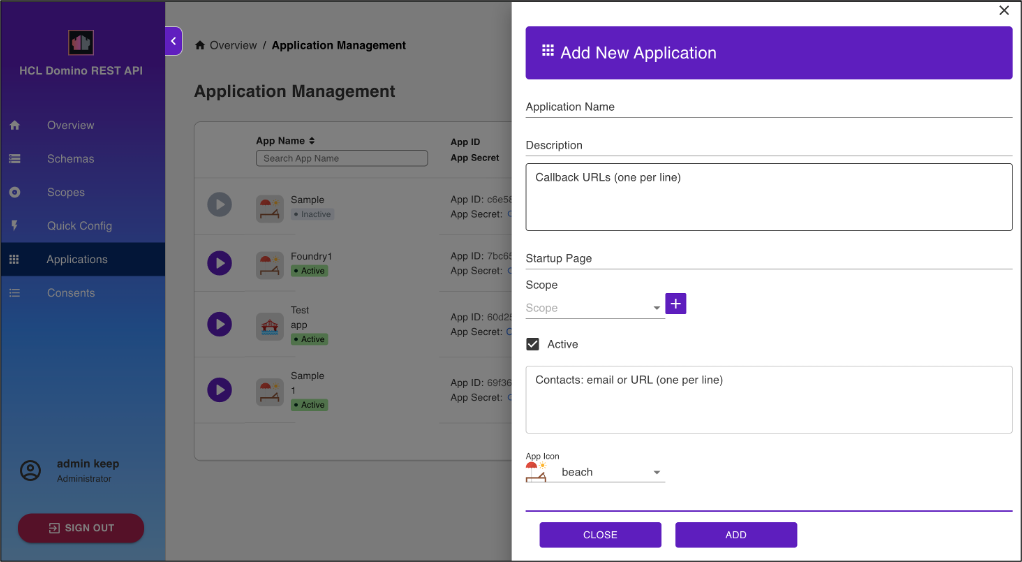
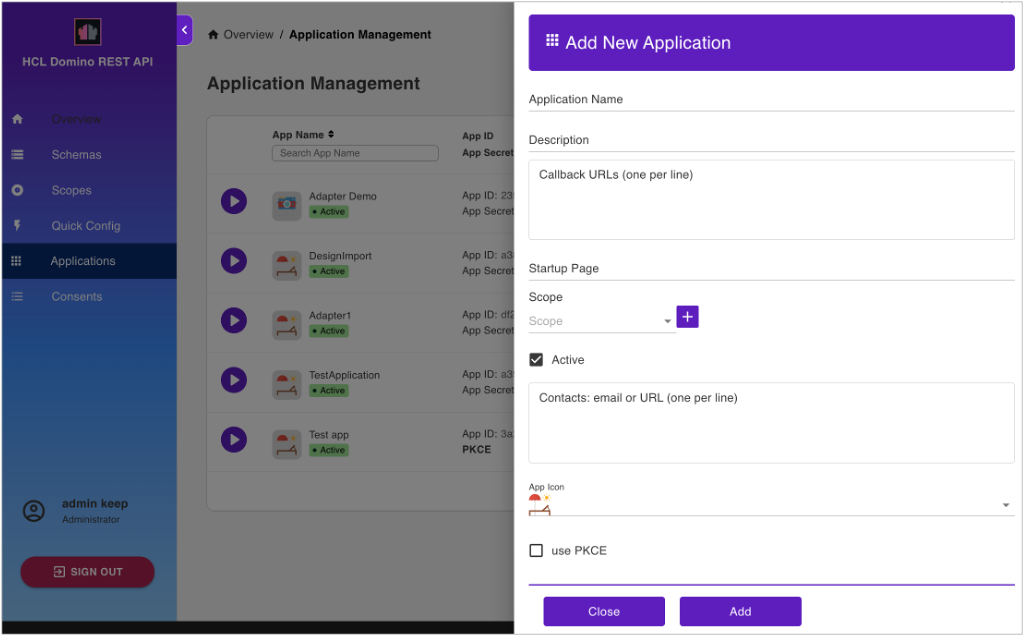
PKCE update

Changed region(s): [[0.0, 0.0, 1.0, 1.0], [0.9706, 0.7865, 1.0, 0.8167], [0.9706, 0.363, 1.0, 0.3932]]

diff --git a/docs/references/usingwebui/appui.md b/docs/references/usingwebui/appui.md
@@ -8,7 +8,8 @@ The **Application Management** page shows all available applications.
 
 ![List of Applications](../../assets/images/ListOfApplications.png)
 
-!!!tip
+!!! tip
+
     - Click the play button to launch the application.
     - Click the **Edit Application** icon to update the details of the application.
     - Click the **Delete Application** icon to delete the application. 
@@ -23,62 +24,43 @@ The **Application Management** page shows all available applications.
 
       ![Application Form](../../assets/images/AddApplicationForm.png)
 
-      When adding a scope, select the scope from the **Scope** drop-down list and click the **Add Scope** icon.
-      
-      **When your app accesses endpoints that run write operations in the `/setup-v1/` URL path, make sure to add the `$SETUP` scope aside from the `$DATA` scope** to enhance access control in relation to the app inheriting a user's access rights when the user grants app access. 
+      The new application is now shown in the **Application Management** page.
 
-The new application is now shown in the **Application Management** page.
+!!! note
+
+    - When adding a scope, select the scope from the **Scope** drop-down list and click the **Add Scope** icon.
+    - **When your app accesses endpoints that run write operations in the `/setup-v1/` URL path, make sure to add the `$SETUP` scope aside from the `$DATA` scope** to enhance access control in relation to the app inheriting a user's access rights when the user grants app access.
+    - Select the **use PKCE** checkbox if you want to use PKCE or Proof Key for Code Exchange, an extension to the authorization code flow to prevent cross-site request forgery and authorization code injection attacks. For more information about how PKCE works and how to implement PKCE, see [Authorization Code Flow with Proof Key for Code Exchange (PKCE)](https://auth0.com/docs/get-started/authentication-and-authorization-flow/authorization-code-flow-with-pkce "Opens a new tab"){: target="_blank" rel="noopener noreferrer"}&nbsp;![link image](../../assets/images/external-link.svg){: style="height:15px;width:15px"}.
 
 ## Generate an app secret
 
+!!! note
+
+    This only applies to applications that use app secret as authentication method. This is not needed if you use PKCE as the authentication method. 
+
 - For applications without a configured app secret, click the **Click to Generate Secret** text.
 - For applications with a configured app secret, click the **Click to Generate Secret** icon&nbsp;![app secret icon](../../assets/images/appsecreticon.png){: style="height:2%;width:2%"}.
-
-
-<!--
-## Add an application
-
-1. On the **Application Management** page, click **Add Application** to add an application.
-
-      ![Add Application](../../assets/images/AddApplication.png){: style="height:80%;width:80%"}
-
-2. Under **Add New Application**, fill in the form and click **Add**.
-
-      ![Application Form](../../assets/images/AddApplicationForm.png){: style="height:80%;width:80%"}
-      
-      When adding a scope, select the scope from the Scope drop-down list and click the Add Scope icon. 
-
-      **When your app accesses endpoints that run write operations in the `/setup-v1/` URL path, make sure to add the `$SETUP` scope aside from the `$DATA` scope** to enhance access control in relation to the app inheriting a user's access rights when the user grants app access. 
-
-
-3. Click the application tile to access options to generate application secret, to edit, and to delete the application.
-
-      ![Edit Application](../../assets/images/EditApplication.png){: style="height:80%;width:80%"}
--->
-
 
 ## Filter applications
 
 You can use the filter function to filter which applications to display.
 
-**To use the filter**
-
 1. Click the filter icon. This opens the **Filter** pane.
-2. Use any or all the filters as needed, and then click **Show Results**. 
+2. Use any or all the filters as needed, and then click **Show Results**.
 
 For more information on the filters, refer to the following table:
 
-|Filter|Description
+|Filter|Description|
 |:----|:----|
 |Status| Select **All** to display active and inactive applications.<br/><br/>Select **Active** to show only active applications.<br/><br/>Select **Inactive** to show only inactive applications.|
-|App secret|Select **All** to display all applications.<br/><br/>Select **Generated** to show only applications with an app secret.<br/><br/>Select **Not Generated** to show only applications without a generated app secret.|
+|Authentication method|Select **All** to display all applications.<br/><br/>Select **App secret** to show all applications that use app secret as authentication method.<br/><br/>Select **App secret generated** to show all applications that use app secret as authentication method and with the app secret already generated.<br/><br/>Select **App secret not generated** to show all applications that use app secret as authentication method but with the app secret not yet generated.<br/><br/>Select **PKCE** to show all applications that use PKCE.|
 
-!!!tip
+!!! tip
+
     Click **Reset** in the **Filter** pane to clear all filters. 
-
 
 ## Access OAuth Consents
 
-- On the **Application Management** page, click **OAuth Consents**. The **OAuth Consents** dialog opens.
+On the **Application Management** page, click **OAuth Consents**. The **OAuth Consents** dialog opens.
 
 All the information and features in the **OAuth Consents** dialog are the same to the information and features in the **OAuth Consents** page. For more information, see [OAUth Consents](oauthconsentui.md).

diff --git a/docs/whatsnew/v1.1.3.md b/docs/whatsnew/v1.1.3.md
@@ -1,14 +1,18 @@
-# DRAPI 1.1.3 Release Notes
+# What's new for Domino REST API v1.1.3
 
 Release date: April 21, 2025
 
 ## New features
 
+- Added the option to use Proof Key for Code Exchange (PKCE) as the authentication method for the created OAuth app on the Application Management page in the Admin UI. PKCE enhances security by ensuring that only the intended client can obtain an access token, providing a strong defense against potential security threats.
+
+    For more information, see [Add an application](../references/usingwebui/appui.md#add-an-application).
+
 - New option for logging in to the **Admin UI**
 
-  You can now log in to the Admin UI using the *Log in with OIDC* option. This option enables the use of Domino REST API IdP and implements the OAuth process requiring user consent to log in. It also enables the use of external IdP to log in to the **Admin UI** that uses authorization code flow with PKCE.
+    You can now log in to the Admin UI using the *Log in with OIDC* option. This option enables the use of Domino REST API IdP and implements the OAuth process requiring user consent to log in. It also enables the use of external IdP to log in to the **Admin UI** that uses authorization code flow with PKCE.
 
-  For more information, see [Log in options](../references/usingwebui/index.md#log-in-options).
+    For more information, see [Log in options](../references/usingwebui/index.md#log-in-options).
 
 ## Improvements
 
@@ -26,7 +30,7 @@ Release date: April 21, 2025
 
 ### CORS is now using Regex
 
-[Browser-based applications](../references/usingdominorestapi/keepapplications.md) that are hosted on a different host need [CORS](https://developer.mozilla.org/en-US/docs/Glossary/CORS) support. Until Domino REST API v1.1.2, this was done by providing a plain string that a domain would need to end on. Starting Domino REST API v1.1.3, this is replaced with a [regular expression (Regex)](https://en.wikipedia.org/wiki/Regular_expression).
+[Browser-based applications](../references/usingdominorestapi/keepapplications.md) that are hosted on a different host need [CORS](https://developer.mozilla.org/en-US/docs/Glossary/CORS "Opens a new tab"){: target="_blank" rel="noopener noreferrer"}&nbsp;![link image](../assets/images/external-link.svg){: style="height:15px;width:15px"} support. Until Domino REST API v1.1.2, this was done by providing a plain string that a domain would need to end on. Starting Domino REST API v1.1.3, this is replaced with a [regular expression (Regex)](https://en.wikipedia.org/wiki/Regular_expression "Opens a new tab"){: target="_blank" rel="noopener noreferrer"}&nbsp;![link image](../assets/images/external-link.svg){: style="height:15px;width:15px"}.
 
 Old:
 
@@ -74,13 +78,11 @@ Change `mycompany.com` to `https:\\/\\/.*\\.mycompany\.com:8000$` to allow only 
 ## Others
 
 - Installer jar files:
-  - For Domino 14: *restapiInstall-r14.jar*
-  - For Domino 12: *restapiInstall-r12.jar*
-
+    - For Domino 14: *restapiInstall-r14.jar*
+    - For Domino 12: *restapiInstall-r12.jar*
 - Docker image version for docker compose .env file (CONTAINER_IMAGE):
-  - For Domino 14: *domino-rest-api:1.1.3-r14*
-  - For Domino 12: *domino-rest-api:1.1.3-r12*  
-
+    - For Domino 14: *domino-rest-api:1.1.3-r14*
+    - For Domino 12: *domino-rest-api:1.1.3-r12*  
 - Docker image version for docker compose .env file from Harbor:
-  - For Domino 14: *hclcr.io/domino/restapi:1.1.3-r14*
-  - For Domino 12: *hclcr.io/domino/restapi:1.1.3-r12*
+    - For Domino 14: *hclcr.io/domino/restapi:1.1.3-r14*
+    - For Domino 12: *hclcr.io/domino/restapi:1.1.3-r12*

diff --git a/docs/index.md b/docs/index.md
@@ -14,29 +14,25 @@ hide:
 Open the <a href="assets/images/svg/keepblockdiagram.svg">overview</a>
 </object>
 
-## TL/TR
-
-!!! tip
-
-    - Get a first idea what you are dealing with by [Understanding how the Domino REST API works](topicguides/understanding.md)
-
-    - If you want to start quickly, go to [Quickstart](tutorial/quickstart.md).
-
-    - For installation information, see [Installation and configuration](tutorial/installconfig/index.md).
-
-    - For everything that admin needs to know, use the [Admin cheat sheet](references/admincheatsheet.md).
-
-    - Trouble running the Domino REST API? Use the [Troubleshooting guide](references/troubleshooting.md).
-
-    - To know features that have been deprecated in the current and earlier releases, see [deprecated features](references/deprecated.md).
-
 ---
 
-!!! tip "Ol' Notes hands start here"
+## Getting started
 
-    Are you coming from a Notes client with a Domino server background? You never had to deal with certificates, JSON Web Token, multiple TCP ports, OAuth, and all the fancy new terms of a shiny new web world. We got you covered, read [the primer](topicguides/notesprimer.md) to get started
+- Get a first idea of what you are dealing with by [understanding how the Domino REST API works](topicguides/understanding.md).
 
----
+- If you want to start quickly, go to [Quickstart](tutorial/quickstart.md).
+
+- For installation information, see [Installation and configuration](tutorial/installconfig/index.md).
+
+- For the latest release information about HCL Domino REST API, see [What's new](whatsnew/index.md).
+
+- To know features deprecated in the current and earlier releases, see [deprecated features](references/deprecated.md).
+
+- Having trouble running the Domino REST API? Use the [troubleshooting guide](references/troubleshooting.md).
+
+<!-- For everything that admin needs to know, use the [Admin cheat sheet](references/admincheatsheet.md).-->
+
+- Are you coming from a Notes client with a Domino server background? You never had to deal with certificates, JSON Web Token, multiple TCP ports, OAuth, and all the fancy new terms of a shiny new web world. Read [the primer](topicguides/notesprimer.md) to get started.
 
 !!! info "API definitions now available"
 

diff --git a/docs/whatsnew/index.md b/docs/whatsnew/index.md
@@ -11,7 +11,7 @@ The What's new contains information about the latest features, improvements, fix
 
 ???+ info "Release summary"
 
-    Release date: [insert release date]
+    Release date: April 21, 2025
     
     - [insert number] New features
     - [insert number] Improvements

diff --git a/docs/whatsnew/whatisnew.md b/docs/whatsnew/whatisnew.md
@@ -1,4 +1,4 @@
-# What's new for v1.1.2 and earlier
+# What's new for Domino REST API v1.1.2 and earlier
 
 <!-- prettier-ignore -->
 !!! note "Important"
